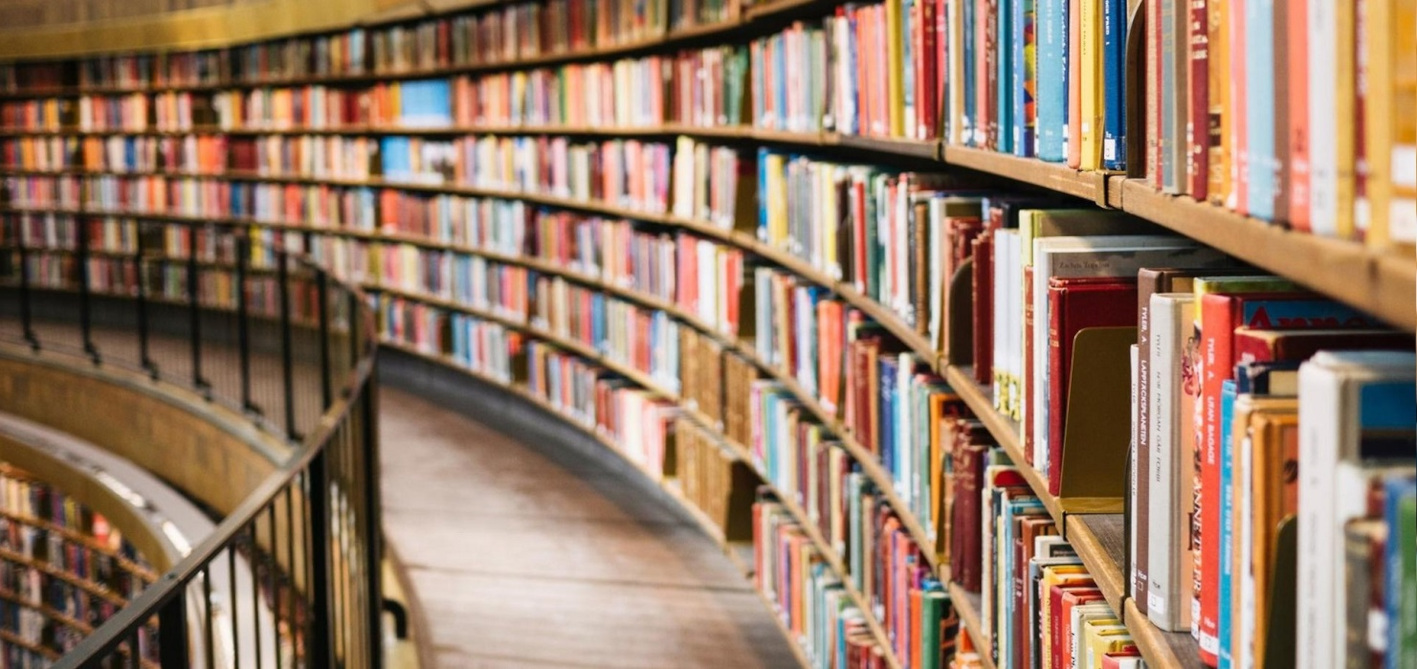
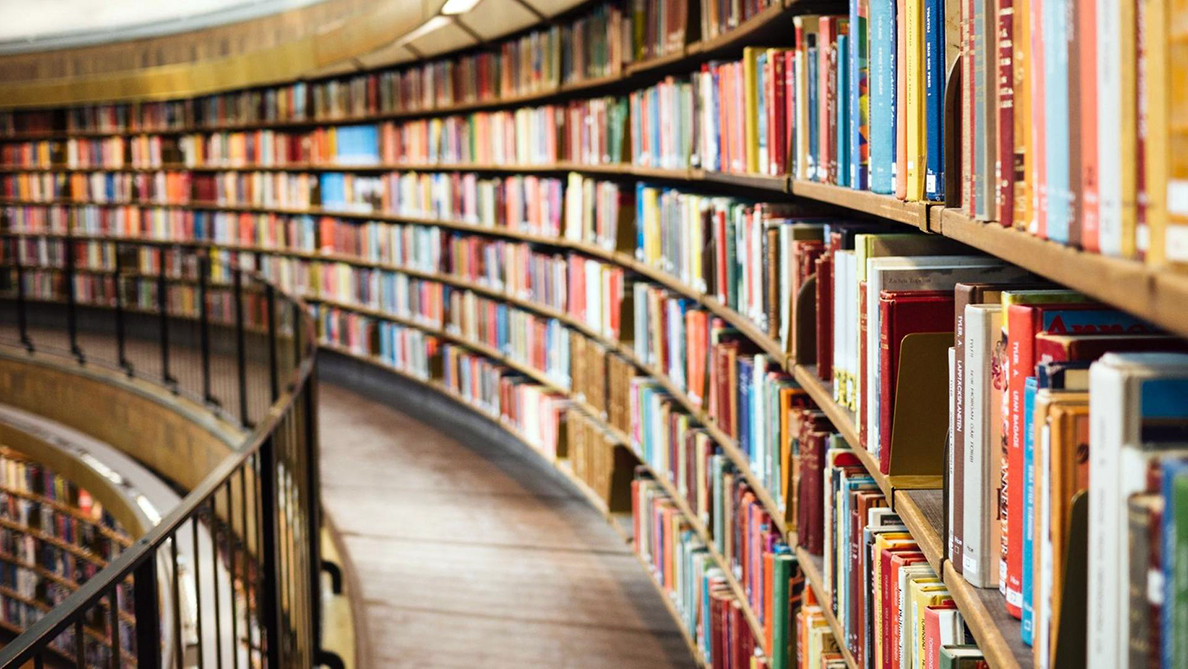
Update des Karussells

diff --git a/src/main/resources/templates/views/home.html b/src/main/resources/templates/views/home.html
@@ -72,22 +72,22 @@
         <div class="carousel-item active">
             <img th:src="@{/images/Slide_1.png}" class="d-block w-100" alt="">
             <div class="carousel-caption d-none d-md-block">
-                <h5>1st slide Headline</h5>
-                <p>Some representative placeholder content for the first slide.</p>
+                <h5>Eine Idee. Ein Weg. Ein Ziel.</h5>
+                <p>Meist sind es die kleinen und einfachen Dinge, die große Auswirkung auf unsere Leben haben. Ob klein oder groß, hier findet alles seinen Platz.</p>
             </div>
         </div>
         <div class="carousel-item">
             <img th:src="@{/images/Slide_2.jpg}" class="d-block w-100" alt="">
             <div class="carousel-caption d-none d-md-block">
-                <h5>2nd slide Headline</h5>
-                <p>Some representative placeholder content for the second slide.</p>
+                <h5>In der Ruhe liegt die Kraft</h5>
+                <p>Alleine mögen wir schwächer sein, doch gemeinsam sind wir unschlagbar!</p>
             </div>
         </div>
         <div class="carousel-item">
             <img th:src="@{/images/Slide_3.jpg}" class="d-block w-100" alt="">
             <div class="carousel-caption d-none d-md-block">
-                <h5>3rd slide Headline</h5>
-                <p>Some representative placeholder content for the third slide.</p>
+                <h5>Sei dabei</h5>
+                <p>Werde Teil der großartigen Community. Teile deine Visionen und sammel Inspirationen. Finde Mitstreiter und lasse deinen Traum Wirklichkeit werden. Alle für einen und One4All!</p>
             </div>
         </div>
     </div>

diff --git a/src/main/resources/static/css/main.css b/src/main/resources/static/css/main.css
@@ -154,6 +154,43 @@ body {
     }
 }
 
+.carousel-item img {
+    object-fit: cover;
+    object-position: center;
+    height: 50vh;
+    overflow: hidden;
+    -webkit-background-size: cover;
+    background-size: cover;
+}
+
+.carousel-item:before {
+    content: "";
+    display: block;
+    position: absolute;
+    top: 0;
+    right: 0;
+    left: 0;
+    bottom: 0;
+    background: #000;
+    opacity: 0.7;
+}
+
+.carousel-caption {
+    bottom: 75px;
+    padding-left: 100px;
+    padding-right: 100px;
+}
+
+.carousel-caption h5 {
+    font-size: 100px;
+    font-weight: 250;
+}
+
+.carousel-caption p {
+    font-size: 18px;
+    top: 2rem;
+}
+
 .hoverDiv {
     background: #fff;
 }
